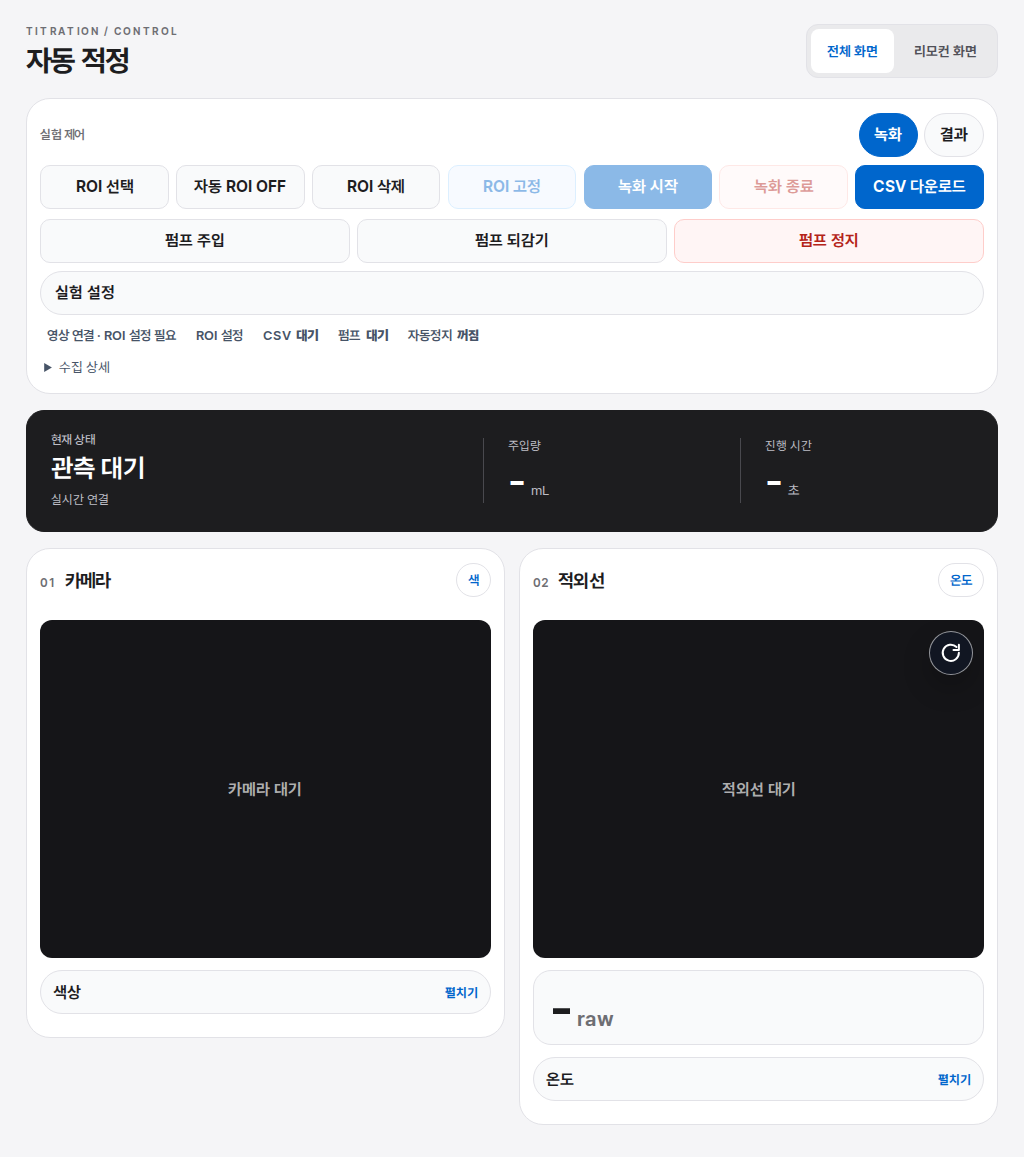
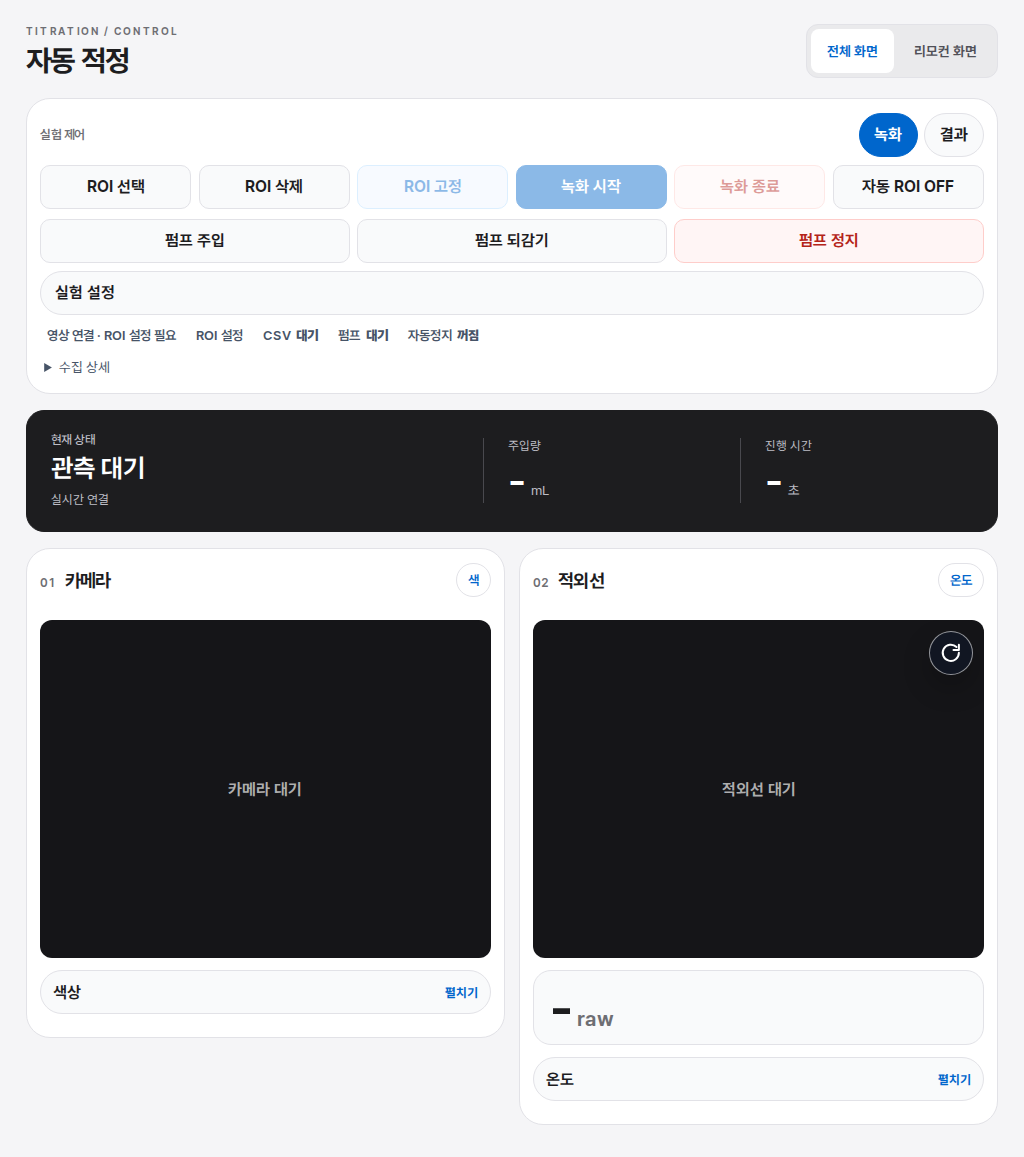
Reserve CSV downloads for the results view
Keep optional automatic ROI at the end of the first control row and avoid distracting downloads during collection.

Tested: 16 Python tests; demo-view regression; four-width Chromium controls/results checks; Windows asset hashes
Not-tested: physical hardware
Confidence: medium

Changed region(s): [[0.3438, 0.1245, 0.9688, 0.1867], [0.1875, 0.1556, 0.3125, 0.1867], [0.0625, 0.1556, 0.1562, 0.1867]]

diff --git a/website/index.html b/website/index.html
@@ -32,12 +32,11 @@
         <div id="csvCollectionControls" class="main-actions" aria-label="ROI와 녹화 조작">
           <div class="control-row roi-record-controls" aria-label="ROI와 기록">
             <button id="roiSetupButton" class="csv-mode-only" type="button">ROI 선택</button>
-            <button id="roiAutoSetupButton" class="csv-mode-only" type="button" aria-pressed="false">자동 ROI OFF</button>
             <button id="roiResetButton" class="csv-mode-only" type="button" hidden title="카메라와 열화상 ROI 모두 삭제">ROI 삭제</button>
             <button id="roiLockButton" class="csv-mode-only" type="button">ROI 고정</button>
             <button id="csvStartButton" class="record-button start-button" type="button">녹화 시작</button>
             <button id="csvStopButton" class="record-button stop-button" type="button">녹화 종료</button>
-            <a id="csvDownloadLink" class="download-button csv-mode-only" href="#" download="auto-titration-ml-training.csv">CSV 다운로드</a>
+            <button id="roiAutoSetupButton" class="csv-mode-only" type="button" aria-pressed="false">자동 ROI OFF</button>
           </div>
           <div class="control-row pump-controls" aria-label="펌프 조작">
             <button id="serialPumpDispenseButton" class="pump-button" type="button">펌프 주입</button>

diff --git a/website/styles.css b/website/styles.css
@@ -333,8 +333,7 @@ body.remote-control-mode .mode-switcher,
 body.remote-control-mode #roiSetupButton,
 body.remote-control-mode #roiResetButton,
 body.remote-control-mode #roiAutoSetupButton,
-body.remote-control-mode #roiLockButton,
-body.remote-control-mode #csvDownloadLink { display:none !important; }
+body.remote-control-mode #roiLockButton { display:none !important; }
 body.remote-control-mode .live-view { max-width:560px; display:flex; flex-direction:column; padding-bottom:calc(1rem + env(safe-area-inset-bottom)); }
 body.remote-control-mode .console-header { order:0; }
 body.remote-control-mode .demo-stage { order:1; }

diff --git a/tests/test_website_assets.py b/tests/test_website_assets.py
@@ -54,7 +54,6 @@ class WebsiteAssetTests(unittest.TestCase):
             "csvPanel",
             "csvRowCount",
             "csvRowsPerSecondValue",
-            "csvDownloadLink",
             "csvStartButton",
             "csvStopButton",
             "serialPumpRetractButton",
@@ -936,7 +935,8 @@ assert.strictEqual(hasTrustedCelsiusTemperature({{
         self.assertNotIn("kickstartSingleRoiCandidate", js)
         self.assertIn('id="roiAutoSetupButton" class="csv-mode-only" type="button" aria-pressed="false">자동 ROI OFF</button>', html)
         self.assertLess(html.index('id="roiSetupButton"'), html.index('id="roiAutoSetupButton"'))
-        self.assertLess(html.index('id="roiAutoSetupButton"'), html.index('id="roiResetButton"'))
+        self.assertLess(html.index('id="csvStopButton"'), html.index('id="roiAutoSetupButton"'))
+        self.assertNotIn('id="csvDownloadLink"', html)
         self.assertLess(html.index('id="roiAutoSetupButton"'), html.index('<details class="settings-drawer'))
         self.assertIn('id="roiResetButton"', html)
         self.assertIn("postRoiAction('/api/roi-auto-candidate'", js)

diff --git a/docs/ui_demo_validation/controls_defaults/README.md b/docs/ui_demo_validation/controls_defaults/README.md
@@ -11,3 +11,5 @@ Verification:16 Python website/navigation tests,12 Node suites,3 targeted collec
 This note supersedes earlier default chemistry, standalone STOP, top-level auto ROI and result-stage presentation notes. Browser summary controlCommands refers to navigation; the explicit user-click ROI reset is separately tested with intercepted requests.
 
 Latest placement correction: automatic ROI now sits beside manual ROI selection, deletion and locking, not inside settings. All pump actions remain in the second group. Four-width browser checks and16Python tests pass. A regression also prevents a late ROI setup callback from enabling deletion after recording has started. Windows3asset hashes refreshed.
+
+Latest user placement: automatic ROI moved to the last slot of the first row; collection toolbar CSV download removed, result CSV download retained. Legacy optional link lookup stays null-safe. Python16 and mocked Chromium4-width checks pass, including no download in controls and visible download in results. Windows index/styles copied and hash verified.
